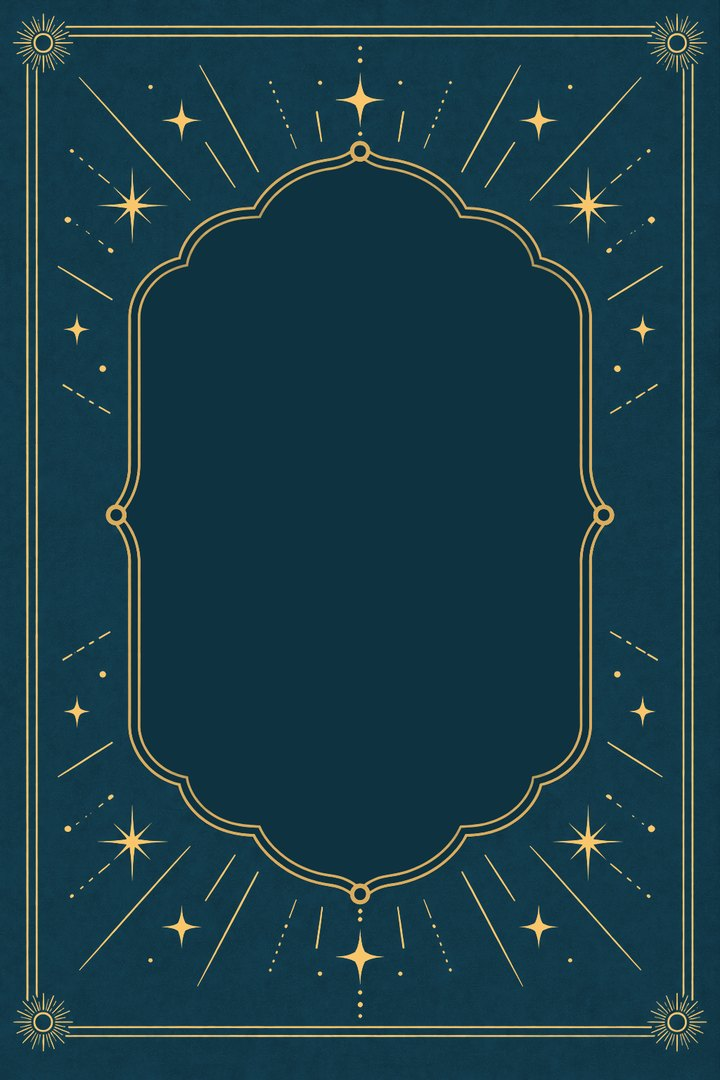
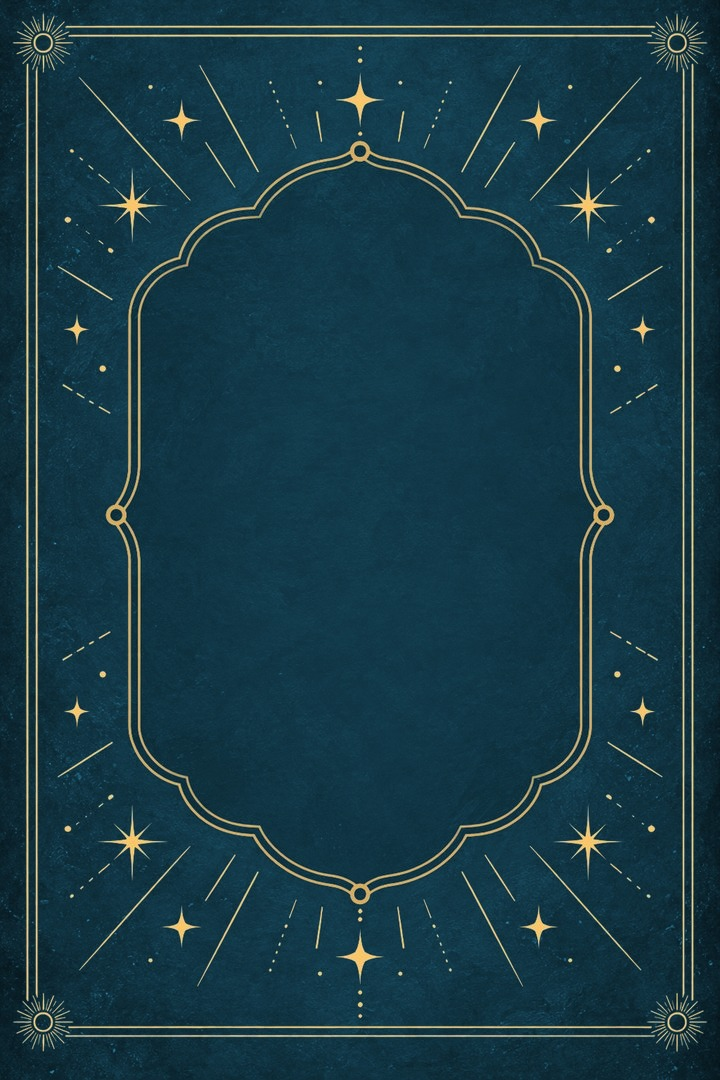
Repaint all eight backs on a painted ground
Все восемь рубашек пересобраны из одной картинки: генератор нарисовал пустое
живописное поле в кармине, reface_back.py покрасил его в тон каждой группы и положил
сверху её собственный орнамент. Орнамент прежний — принятый, симметричный и уже
выверенный, перерисовывать его было незачем.

Пришлось научить скрипт двум вещам. Переносить надо не «золото», а всю светотень:
картуш — поле темнее фона, маска по яркости его не видит, и на первой сборке он
исчез у Жезлов целиком. Теперь поле умножается на отношение старой яркости к медиане
старого фона, и затемнения переходят вместе с бликами.

Рубашке Шута добавлен ключ --dark: её орнамент темнее фона, порогом по яркости не
снимается вовсе. Там затемнения усиливаются втрое, потому что контур картуша темнее
бронзы всего на девять процентов и тонет в фактуре, а тон фона после этого
возвращается на место — без нормировки бронза уехала от лица Шута на 15 при допуске 12.

Замеры: рубашки расходятся со своими лицами на 0.0–5.7, контраст текста в картуше от
5.4 до 10.7 к одному при требуемых 4.5. Исходное поле сохранено в
docs/design/reference/back-field.png, чтобы сборку можно было повторить.

Claude-Session: https://claude.ai/code/session_01FcjeFzp3mmV4ywoCKrWjfL

diff --git a/scripts/reface_back.py b/scripts/reface_back.py
@@ -19,7 +19,7 @@ from __future__ import annotations
 import argparse
 from pathlib import Path
 
-from PIL import Image, ImageFilter, ImageStat
+from PIL import Image, ImageChops, ImageFilter, ImageStat
 
 # Во сколько раз орнамент ярче медианы фона
 GOLD_ABOVE = 1.35
@@ -67,30 +67,78 @@ def tint(field: Image.Image, target: tuple[int, int, int]) -> Image.Image:
     )
 
 
+def shade(painted: Image.Image, back: Image.Image, deepen: float = 1.0) -> Image.Image:
+    """Переносит на поле затемнения старой рубашки — прежде всего поле картуша.
+
+    Картуш не золотой, а наоборот: ровное поле темнее фона. Маска по яркости его
+    не видит, и на первой сборке он исчез у Жезлов целиком — у остальных гамм его
+    выдавал только яркий контур. Поэтому поле умножается на отношение старой
+    яркости к медиане старого фона: там, где рубашка была темнее фона, темнеет и
+    новое поле, а на ровном фоне отношение около единицы и ничего не меняется.
+    """
+    grey = back.convert("L")
+    level = median(grey)
+    ratio = grey.point(
+        [min(255, round(255 * min(1.0, v / level) ** deepen)) for v in range(256)]
+    )
+
+    return ImageChops.multiply(painted, Image.merge("RGB", [ratio] * 3))
+
+
+def restore_level(result: Image.Image, target: tuple[int, int, int]) -> Image.Image:
+    """Возвращает фону заданный тон после усиления затемнений.
+
+    Усиление, которым вытягивают тёмный орнамент на светлой рубашке, затемняет
+    заодно и всё поле: бронза Шута уехала от своих лиц на 15 при допуске 12.
+    Здесь медиана результата приводится обратно к медиане заданного тона.
+    """
+    grey = result.convert("L")
+    want = round(0.299 * target[0] + 0.587 * target[1] + 0.114 * target[2])
+    scale = want / median(grey)
+    if abs(scale - 1) < 0.01:
+        return result
+    lut = [min(255, round(v * scale)) for v in range(256)]
+    return Image.merge("RGB", [ch.point(lut) for ch in result.split()])
+
+
 def main() -> int:
     parser = argparse.ArgumentParser(description="Орнамент старой рубашки на новый фон")
     parser.add_argument("back", type=Path, help="старая рубашка — источник орнамента")
     parser.add_argument("field", type=Path, help="пустое живописное поле")
     parser.add_argument("tone", help='тон группы, например "#29232B"')
     parser.add_argument("out", type=Path)
+    parser.add_argument("--dark", action="store_true",
+                        help="орнамент темнее фона, как на бронзовой рубашке Шута")
     args = parser.parse_args()
 
     back = Image.open(args.back).convert("RGB")
     field = Image.open(args.field).convert("RGB").resize(back.size, Image.LANCZOS)
 
-    mask, share = gold_mask(back)
-    if not GOLD_MIN <= share <= GOLD_MAX:
-        print(
-            f"орнамент занял {share:.0%} кадра — порогом по яркости он от фона не "
-            "отделяется, и снять его с этой рубашки нельзя."
-        )
-        return 1
+    # На светлой рубашке тёмный орнамент отличается от фона всего на проценты:
+    # контур картуша у Шута темнее его бронзы на девять, и на фактурном поле он
+    # тонет. Поэтому там затемнения усиливаются.
+    painted = shade(tint(field, hex_to_rgb(args.tone)), back, 3.0 if args.dark else 1.0)
 
-    painted = tint(field, hex_to_rgb(args.tone))
-    result = Image.composite(back, painted, mask)
+    if args.dark:
+        # Весь орнамент здесь темнее фона и уже перенесён светотенью: золота нет
+        result = painted
+        told = "орнамент перенесён целиком как затемнение"
+    else:
+        mask, share = gold_mask(back)
+        if not GOLD_MIN <= share <= GOLD_MAX:
+            print(
+                f"орнамент занял {share:.0%} кадра — порогом по яркости он от фона не "
+                "отделяется. Если он темнее фона, пустите с --dark."
+            )
+            return 1
+        result = Image.composite(back, painted, mask)
+        told = f"орнамент ({share:.0%} кадра) пересажен"
+
+    if args.dark:
+        result = restore_level(result, hex_to_rgb(args.tone))
     result.save(args.out, quality=92, optimize=True)
 
-    print(f"орнамент ({share:.0%} кадра) пересажен на новое поле в тоне {args.tone} → {args.out}")
+    print(f"{told} на новое поле в тоне {args.tone} → {args.out}")
     print("симметрию при повороте добавьте через mirror_back.py")
     return 0
 

diff --git a/docs/design/cards.md b/docs/design/cards.md
@@ -193,13 +193,28 @@
 темнее полутора медиан яркости: орнамент занимает около шести процентов кадра и
 ярче фона вдвое, так что порог отделяет его чисто.
 
-Орнамент рубашки у генератора не заказывают заново. Он уже нарисован, принят и
+Исходное поле лежит в `docs/design/reference/back-field.png`, и все восемь рубашек
+собраны из него. Орнамент рубашки у генератора не заказывают заново. Он уже нарисован, принят и
 отделяется от фона порогом по яркости, так что новый рисунок будет только другим и
 с другими ошибками. Плоским в рубашке выглядит один фон: ровная заливка рядом с
 масляной живописью лиц читается как векторная иконка. Поэтому у генератора берут
 одно пустое живописное поле, а дальше работает `scripts/reface_back.py`: красит это
 поле в тон нужной группы и кладёт сверху орнамент, снятый со старой рубашки. Одной
 картинки хватает на все восемь гамм.
+
+Переносят не «золото», а всю светотень орнамента: картуш — это поле темнее фона, и
+маска по яркости его не видит. На первой сборке он исчез у Жезлов целиком, а у
+остальных гамм держался только на ярком контуре. Поэтому поле умножается на отношение
+старой яркости к медиане старого фона.
+
+Рубашке Шута нужен ключ `--dark`: её орнамент темнее фона, а не светлее, и порогом
+по яркости не снимается вовсе. Там же затемнения усиливаются втрое — контур картуша
+темнее бронзы всего на девять процентов и на фактурном поле тонет, — а тон фона потом
+возвращается на место, иначе усиление утягивает всю бронзу и она расходится с лицом
+Шута на 15 при допуске 12.
+
+Собранные рубашки расходятся со своими лицами на 0.0–5.7, а контраст текста
+в картуше держится от 5.4 до 10.7 к одному.
 
 Симметрию при повороте на 180° не просят у генератора, а собирают:
 `scripts/mirror_back.py` берёт верхнюю половину рубашки, поворачивает её и ставит
